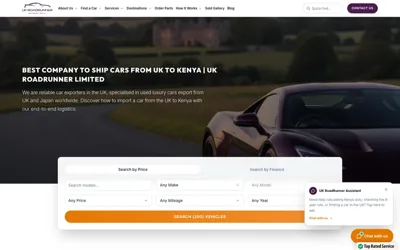
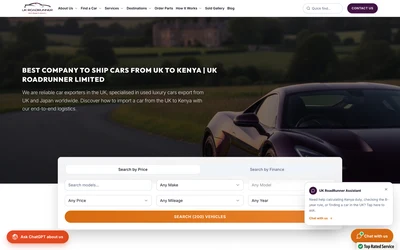
Add UK RoadRunner website case study and refresh portfolio preview

diff --git a/blog/case-study-how-i-built-uk-roadrunner-car-export-website.html b/blog/case-study-how-i-built-uk-roadrunner-car-export-website.html
@@ -1,0 +1,265 @@
+<!DOCTYPE html>
+<html lang="en">
+<head>
+    <meta charset="UTF-8">
+    <meta name="viewport" content="width=device-width, initial-scale=1.0">
+    <title>How I Built UK RoadRunner: Vehicle Discovery, Export Guidance & Enquiries | Xclusive Tech</title>
+    <meta name="description" content="A screenshot-led UK RoadRunner website case study covering vehicle search, inventory browsing, shipping information and clear enquiry paths for overseas buyers.">
+    <meta name="keywords" content="UK RoadRunner website, automotive website design, car exporter website, vehicle inventory website, Xclusive Tech">
+    <meta name="author" content="Samuel Kidemi Kisaga, Xclusive Tech">
+    <meta property="og:title" content="How I Built UK RoadRunner: Vehicle Discovery, Export Guidance & Enquiries">
+    <meta property="og:description" content="A screenshot-led UK RoadRunner website case study covering vehicle search, inventory browsing, shipping information and clear enquiry paths for overseas buyers.">
+    <meta property="og:type" content="article">
+    <meta property="og:url" content="https://www.xclusivetech.co.ke/blog/case-study-how-i-built-uk-roadrunner-car-export-website">
+    <meta property="og:image" content="https://www.xclusivetech.co.ke/assets/images/blog/case-study-how-i-built-uk-roadrunner-car-export-website.jpg">
+    <meta name="twitter:card" content="summary_large_image">
+    <meta name="twitter:title" content="How I Built UK RoadRunner: Vehicle Discovery, Export Guidance & Enquiries">
+    <meta name="twitter:description" content="A screenshot-led UK RoadRunner website case study covering vehicle search, inventory browsing, shipping information and clear enquiry paths for overseas buyers.">
+    <meta name="twitter:image" content="https://www.xclusivetech.co.ke/assets/images/blog/case-study-how-i-built-uk-roadrunner-car-export-website.jpg">
+    <link rel="canonical" href="https://www.xclusivetech.co.ke/blog/case-study-how-i-built-uk-roadrunner-car-export-website">
+
+    <!-- Theme Enforcement: Strictly Light Mode -->
+    <script>
+        try {
+            localStorage.removeItem('xclusive_theme');
+            document.documentElement.removeAttribute('data-theme');
+            document.documentElement.classList.remove('dark');
+        } catch (e) {}
+    </script>
+
+    <!-- Google Fonts Preconnect & Ubuntu Font Loading -->
+    <link rel="preconnect" href="https://fonts.googleapis.com">
+    <link rel="preconnect" href="https://fonts.gstatic.com" crossorigin>
+    <link href="https://fonts.googleapis.com/css2?family=Ubuntu:ital,wght@0,300;0,400;0,500;0,700;1,300;1,400;1,500;1,700&display=swap" rel="stylesheet">
+
+    <!-- Tailwind CSS -->
+
+    <link rel="stylesheet" href="/css/utilities.css?v=20261030buyer">
+    <link rel="icon" href="../assets/icons/xclusivetech-favicon.svg?v=2" type="image/svg+xml">
+    <link rel="icon" type="image/png" sizes="96x96" href="../assets/icons/favicon-96x96.png?v=2">
+    <link rel="apple-touch-icon" sizes="180x180" href="../assets/icons/apple-touch-icon.png?v=2">
+    <link rel="shortcut icon" href="../favicon.ico?v=2">
+    <link rel="manifest" href="../site.webmanifest">
+    <link rel="stylesheet" href="../css/styles.css?v=20261101contacts">
+
+    <!-- Structured Data: BreadcrumbList, BlogPosting, FAQPage -->
+    <script type="application/ld+json">{
+  "@context": "https://schema.org",
+  "@graph": [
+    {
+      "@type": "BreadcrumbList",
+      "itemListElement": [
+        {
+          "@type": "ListItem",
+          "position": 1,
+          "name": "Home",
+          "item": "https://www.xclusivetech.co.ke/"
+        },
+        {
+          "@type": "ListItem",
+          "position": 2,
+          "name": "Blog",
+          "item": "https://www.xclusivetech.co.ke/blog/"
+        },
+        {
+          "@type": "ListItem",
+          "position": 3,
+          "name": "UK RoadRunner case study",
+          "item": "https://www.xclusivetech.co.ke/blog/case-study-how-i-built-uk-roadrunner-car-export-website"
+        }
+      ]
+    },
+    {
+      "@type": "BlogPosting",
+      "headline": "How I Built UK RoadRunner: Vehicle Discovery, Export Guidance & Enquiries",
+      "description": "A screenshot-led UK RoadRunner website case study covering vehicle search, inventory browsing, shipping information and clear enquiry paths for overseas buyers.",
+      "image": [
+        "https://www.xclusivetech.co.ke/assets/images/blog/case-study-how-i-built-uk-roadrunner-car-export-website.jpg"
+      ],
+      "datePublished": "2026-11-09",
+      "dateModified": "2026-11-09",
+      "mainEntityOfPage": {
+        "@type": "WebPage",
+        "@id": "https://www.xclusivetech.co.ke/blog/case-study-how-i-built-uk-roadrunner-car-export-website"
+      },
+      "author": {
+        "@type": "Person",
+        "name": "Samuel Kidemi Kisaga",
+        "url": "https://www.xclusivetech.co.ke/founder"
+      },
+      "publisher": {
+        "@type": "Organization",
+        "name": "Xclusive Tech",
+        "url": "https://www.xclusivetech.co.ke/"
+      },
+      "inLanguage": "en-KE"
+    }
+  ]
+}</script>
+    <link rel="stylesheet" href="/css/blog.css?v=20261107footer">
+</head>
+<body class="bg-white text-slate-900 overflow-x-hidden">
+
+    <!-- Navigation -->
+    <nav class="fixed top-0 w-full z-50 bg-white/95 backdrop-blur-lg border-b border-slate-200 transition-all duration-300" id="navbar">
+        <div class="max-w-7xl mx-auto px-4 sm:px-6 lg:px-8">
+            <div class="flex justify-between items-center h-16">
+                <a href="/" class="flex items-center gap-2">
+                    <img src="../assets/icons/xclusivetech-header-logo-light.svg" alt="Xclusive Tech logo" class="nav-logo-img nav-logo-light h-10 w-auto">
+                    <img src="../assets/icons/xclusivetech-header-logo.svg" alt="Xclusive Tech logo" class="nav-logo-img nav-logo-dark h-10 w-auto">
+                </a>
+                <div class="hidden md:flex gap-8">
+                    <a href="/" class="nav-link">Home</a>
+                    <a href="/about" class="nav-link">About</a>
+                    <a href="/services" class="nav-link">Services</a>
+                    <div class="relative group">
+                        <button type="button" class="nav-link bg-transparent cursor-pointer flex items-center gap-1">
+                            Solutions
+                            <svg aria-hidden="true" class="w-3.5 h-3.5 transition-transform duration-200 group-hover:rotate-180" fill="none" stroke="currentColor" stroke-width="2.5" viewBox="0 0 24 24"><polyline points="6 9 12 15 18 9"/></svg>
+                        </button>
+                        <div class="absolute left-1/2 -translate-x-1/2 top-full pt-3 hidden group-hover:block z-50">
+                            <div class="bg-white border border-slate-200 rounded-xl shadow-2xl py-2 w-60">
+                                <a href="/solutions" class="block px-4 py-2.5 text-sm text-gray-700 hover:bg-slate-50 hover:text-blue-600 transition-colors">Solutions by Business Type</a>
+                                <a href="/solutions#industries" class="block px-4 py-2.5 text-sm text-gray-700 hover:bg-slate-50 hover:text-blue-600 transition-colors">Industries We Serve</a>
+                                <a href="/printing" class="block px-4 py-2.5 text-sm text-gray-700 hover:bg-slate-50 hover:text-blue-600 transition-colors">Printing &amp; Publications</a>
+                                <a href="/solutions#saas" class="block px-4 py-2.5 text-sm text-gray-700 hover:bg-slate-50 hover:text-blue-600 transition-colors">SaaS &amp; Custom Platforms</a>
+                            </div>
+                        </div>
+                    </div>
+                    <a href="/pricing" class="nav-link">Pricing</a>
+                    <a href="/portfolio" class="nav-link">Portfolio</a>
+                    <a href="/blog/" class="nav-link active">Blog</a>
+                    <a href="/contact" class="nav-link">Contact</a>
+                </div>
+                <div class="nav-actions flex items-center gap-3">
+                    <a href="https://wa.me/254722753819?text=Hi+Samuel%2C+I+read+your+UK+RoadRunner+case+study.+We+need+an+automotive+website." target="_blank" class="hidden md:block px-6 py-2 rounded-lg bg-blue-600 text-white hover:bg-blue-700 shadow-md transition-all duration-300 font-medium">Discuss Your Website</a>
+                    <button id="mobile-menu-btn" class="md:hidden p-2 rounded-lg hover:bg-slate-100 transition-colors" aria-label="Toggle menu">
+                        <svg class="w-6 h-6" fill="none" stroke="currentColor" viewBox="0 0 24 24">
+                            <path stroke-linecap="round" stroke-linejoin="round" stroke-width="2" d="M4 6h16M4 12h16M4 18h16"></path>
+                        </svg>
+                    </button>
+                </div>
+            </div>
+        </div>
+    </nav>
+
+    <!-- Breadcrumb Header -->
+    <header class="pt-28 pb-8 px-4 sm:px-6 lg:px-8 bg-gradient-to-b from-amber-50/60 to-white border-b border-slate-100">
+        <div class="max-w-4xl mx-auto">
+            <nav class="flex items-center gap-2 text-xs text-slate-500 mb-6 font-medium" aria-label="Breadcrumb">
+                <a href="/" class="hover:text-blue-600 transition">Home</a>
+                <span>/</span>
+                <a href="/blog/" class="hover:text-blue-600 transition">Blog</a>
+                <span>/</span>
+                <span class="text-slate-800">UK RoadRunner Case Study</span>
+            </nav>
+
+            <div class="inline-flex items-center gap-2 px-3 py-1 rounded-full bg-amber-100 text-amber-800 text-xs font-semibold uppercase tracking-wider mb-4">
+                <span><svg class="xt-ui-icon" width="20" height="20" viewBox="0 0 24 24" aria-hidden="true" focusable="false"><use href="/assets/icons/ui.svg#truck"></use></svg> Automotive Websites &amp; Vehicle Exports</span>
+            </div>
+
+            <h1 class="text-3xl sm:text-4xl lg:text-5xl font-extrabold text-slate-900 tracking-tight leading-tight mb-6">How I Built UK RoadRunner: Vehicle Discovery, Export Guidance & Enquiries</h1>
+
+            <div class="flex items-center gap-4 text-sm text-slate-600 pb-2 border-b border-slate-200">
+                <div class="flex items-center gap-2.5">
+                    <img src="../assets/images/samuel-headshot.webp" alt="Samuel Kidemi" class="w-10 h-10 rounded-full border border-blue-200 object-cover" srcset="../assets/images/samuel-headshot-256.webp 256w, ../assets/images/samuel-headshot.webp 800w" sizes="(min-width: 1024px) 33vw, (min-width: 640px) 50vw, 100vw">
+                    <div>
+                        <span class="font-bold text-slate-900 block leading-tight">Samuel Kidemi Kisaga</span>
+                        <span class="text-xs text-slate-500">Founder &amp; Principal Web Architect</span>
+                    </div>
+                </div>
+                <span class="text-slate-300">•</span>
+                <time datetime="2026-11-09" class="text-xs text-slate-500">November 9, 2026</time>
+                <span class="text-slate-300">•</span>
+                <span class="text-xs text-amber-700 font-semibold">6 min read</span>
+                <span class="text-slate-300">•</span>
+                <a href="https://ukroadrunner.co.uk" target="_blank" rel="noopener noreferrer" class="text-xs font-semibold text-amber-800 hover:underline">Live Site: ukroadrunner.co.uk &rarr;</a>
+            </div>
+        </div>
+    </header>
+
+    <!-- Main Content -->
+    <main class="py-12 px-4 sm:px-6 lg:px-8">
+        <article class="max-w-4xl mx-auto"><div class="rounded-2xl overflow-hidden border border-slate-200 shadow-xl mb-12"><img src="/assets/images/blog/case-study-how-i-built-uk-roadrunner-car-export-website.webp" alt="UK RoadRunner homepage with vehicle search and export service presentation" width="1200" height="630" fetchpriority="high" class="w-full h-auto"><div class="p-4 bg-slate-900 text-slate-300 text-xs">UK RoadRunner Limited · Automotive &amp; international vehicle exports · Website by Samuel Kidemi</div></div>
+<div class="prose prose-slate lg:prose-lg max-w-none space-y-8 text-slate-700 leading-relaxed">
+<p class="text-xl text-slate-800 font-medium">Buying a vehicle overseas starts with questions: which car fits my needs, what happens after I choose it, and who can help me through the import process? When I built UK RoadRunner’s website, I organised the experience around those decisions.</p>
+<p>This case study walks through the customer-facing design: a searchable showroom, practical export information and routes into a conversation with the team. The previews are real desktop captures of the live website taken on November 9, 2026.</p>
+<div class="my-8 p-6 rounded-2xl bg-amber-50 border border-amber-200"><h2 class="text-xl font-bold text-slate-900 mb-3">Project at a glance</h2><ul class="list-disc pl-6 space-y-2"><li><strong>Client:</strong> UK RoadRunner Limited.</li><li><strong>Sector:</strong> vehicle sourcing and international automotive logistics.</li><li><strong>My work:</strong> website design and development.</li><li><strong>Design focus:</strong> help buyers discover vehicles, understand the export journey and make a relevant enquiry.</li><li><strong>Explore:</strong> <a href="https://ukroadrunner.co.uk" target="_blank" rel="noopener noreferrer" class="underline">Visit UK RoadRunner</a>.</li></ul></div>
+<h2 class="text-2xl font-bold text-slate-900">1. Give the first screen a useful job</h2>
+<p>I brought vehicle discovery into the homepage instead of making buyers search through company information first. The search offers make, model, price, mileage and year controls, alongside a separate finance search tab. The visual direction pairs a deep purple identity with orange actions and prominent vehicle imagery.</p>
+<p>The broader design principle is simple: a strong first screen should explain the offer and let visitors do something useful. A buyer who already knows their preferred vehicle can begin searching; someone still researching can explore the services and process.</p>
+<figure class="my-8"><a href="/assets/images/blog/uk-roadrunner-desktop.webp" target="_blank" rel="noopener noreferrer"><img src="/assets/images/blog/uk-roadrunner-desktop.webp" alt="UK RoadRunner desktop homepage showing hero, vehicle filters and featured vehicles" width="1440" height="900" loading="lazy" decoding="async" class="w-full h-auto rounded-xl border border-slate-200"></a><figcaption class="text-sm text-slate-500 mt-3">Homepage preview captured in Chrome at a 1440 × 900 CSS-pixel viewport. Click any preview to inspect it at full size.</figcaption></figure>
+<h2 class="text-2xl font-bold text-slate-900">2. Make inventory easier to narrow down</h2>
+<p>The <a href="https://ukroadrunner.co.uk/inventory" target="_blank" rel="noopener noreferrer" class="underline">inventory page</a> combines a filter sidebar, brand shortcuts, sorting and vehicle cards. This gives visitors several ways to reduce a broad catalogue to a more useful shortlist.</p>
+<p>I used a repeatable card structure so the photograph, vehicle identity and key information occupy predictable places. Consistency helps comparison: visitors can focus on the differences between cars instead of relearning the layout for each listing. Stock and prices are live business information and will change after these screenshots.</p>
+<figure class="my-8"><a href="/assets/images/blog/uk-roadrunner-inventory.webp" target="_blank" rel="noopener noreferrer"><img src="/assets/images/blog/uk-roadrunner-inventory.webp" alt="UK RoadRunner inventory with make, model, price, mileage and body-style filters beside vehicle cards" width="1440" height="900" loading="lazy" decoding="async" class="w-full h-auto rounded-xl border border-slate-200"></a><figcaption class="text-sm text-slate-500 mt-3">Desktop inventory capture showing the search controls, brand shortcuts and vehicle imagery as displayed on November 9, 2026.</figcaption></figure>
+<h2 class="text-2xl font-bold text-slate-900">3. Connect the showroom to the export journey</h2>
+<p>Vehicle choice is only one part of this business. I separated the navigation into areas for finding a car, services, destinations and the import process. That structure gives different questions a clear home without forcing the entire service catalogue into the main page.</p>
+<figure class="my-8"><a href="/assets/images/blog/uk-roadrunner-navigation.webp" target="_blank" rel="noopener noreferrer"><img src="/assets/images/blog/uk-roadrunner-navigation.webp" alt="UK RoadRunner navigation with Find a Car, Services, Destinations, How It Works and Contact Us" width="1440" height="85" loading="lazy" decoding="async" class="w-full h-auto rounded-xl border border-slate-200"></a><figcaption class="text-sm text-slate-500 mt-3">Navigation detail cropped from the same desktop homepage capture.</figcaption></figure>
+<p>The <a href="https://ukroadrunner.co.uk/kenya-shipping" target="_blank" rel="noopener noreferrer" class="underline">Kenya shipping page</a> brings together shipping options, import preparation and a quote request. Destination-specific content helps buyers reach information relevant to their route, rather than treating every overseas enquiry as the same transaction.</p>
+<h2 class="text-2xl font-bold text-slate-900">4. Give research a clear next step</h2>
+<p>The site includes an <a href="https://ukroadrunner.co.uk/how-it-works/kenya-car-duty-calculator" target="_blank" rel="noopener noreferrer" class="underline">import-duty estimate tool</a> and a route to request a detailed cost breakdown. The calculator’s role in the interface is to support an initial budgeting conversation; its own disclaimer distinguishes an estimate from a final assessment.</p>
+<p>I kept the contact action visible in the navigation. A useful commercial website should let someone move from browsing to a specific question without losing context. The design supports that handoff rather than requiring every visitor to follow an identical path.</p>
+<h2 class="text-2xl font-bold text-slate-900">5. What this project demonstrates</h2>
+<ul class="list-disc pl-6 space-y-2"><li><strong>Discovery:</strong> give catalogue visitors practical ways to narrow their options.</li><li><strong>Clarity:</strong> separate product information from service and destination guidance.</li><li><strong>Consistency:</strong> repeat navigation, card patterns and action styles.</li><li><strong>Enquiries:</strong> connect research content to a relevant conversation.</li></ul>
+<p>The finished work is a vehicle export website that brings these journeys together. This walkthrough focuses on the interface and content decisions visible in the live project; it does not claim a measured increase in sales or enquiries.</p>
+<aside class="blog-cta" aria-label="Automotive website project enquiry"><div class="blog-cta-copy"><h2>Need a better digital showroom?</h2><p>Let’s organise your vehicles, services and enquiry journey around what your customers need to decide.</p></div><div class="blog-cta-actions"><a class="blog-cta-primary" href="https://wa.me/254722753819?text=Hello%20Samuel%2C%20I%20saw%20your%20UK%20RoadRunner%20case%20study." target="_blank" rel="noopener noreferrer">Discuss your website</a><a class="blog-cta-secondary" href="/portfolio#automotive">Explore automotive work</a></div></aside>
+<div class="p-6 rounded-2xl bg-slate-50 border border-slate-200"><h2 class="text-lg font-bold text-slate-900">About the author</h2><p>Samuel Kidemi Kisaga is the founder of Xclusive Tech. Read the <a href="/founder" class="underline">founder profile</a> or browse more <a href="/portfolio" class="underline">website projects</a>.</p></div>
+</div></article>
+    </main>
+
+    <!-- Footer -->
+    <footer class="blog-footer bg-slate-900 text-slate-300 pt-16 pb-12 border-t border-slate-800">
+        <div class="max-w-7xl mx-auto px-4 sm:px-6 lg:px-8">
+            <div class="grid grid-cols-1 md:grid-cols-4 gap-10 mb-12">
+                <div class="space-y-4">
+                    <img src="../assets/icons/xclusivetech-header-logo.svg?v=20261107footer" alt="Xclusive Tech" class="h-10 w-auto">
+                    <p class="text-xs text-slate-400 leading-relaxed">
+                        Top Digitally Fit Web Design &amp; Digital Architecture Firm in Nairobi, Kenya. We engineer high-speed, conversion-focused websites for transport brands, institutions, and enterprises.
+                    </p>
+                    <p class="text-xs text-slate-400">Kilimani, Nairobi, Kenya</p>
+                </div>
+                <div>
+                    <h3 class="text-white text-sm font-bold uppercase tracking-wider mb-4">Case Studies</h3>
+                    <ul class="space-y-2 text-xs">
+                        <li><a href="/blog/case-study-how-i-built-opsok-medical-website-kenya" class="hover:text-white transition">OPSOK Medical Society</a></li>
+                        <li><a href="/blog/case-study-how-i-designed-lusweti-nabutola-law-firm-website-nairobi" class="hover:text-white transition">Lusweti &amp; Nabutola Law</a></li>
+                        <li><a href="/blog/case-study-how-i-built-uk-roadrunner-car-export-website" class="text-amber-400 hover:text-white transition">UK RoadRunner</a></li>
+                        <li><a href="/blog/case-study-how-i-built-santorini-queen-luxury-yacht-travel-website" class="hover:text-white transition">Santorini Queen Yacht</a></li>
+                        <li><a href="/blog/case-study-how-i-built-vape-collective-ecommerce-mpesa-kenya" class="hover:text-white transition">Vape Collective E-Commerce</a></li>
+                    </ul>
+                </div>
+                <div>
+                    <h3 class="text-white text-sm font-bold uppercase tracking-wider mb-4">Core Services</h3>
+                    <ul class="space-y-2 text-xs">
+                        <li><a href="/services" class="hover:text-white transition">Transport &amp; Tour Portals</a></li>
+                        <li><a href="/services" class="hover:text-white transition">Institutional Web Design</a></li>
+                        <li><a href="/services" class="hover:text-white transition">E-Commerce &amp; Daraja M-Pesa</a></li>
+                        <li><a href="/services" class="hover:text-white transition">SEO &amp; GEO Optimization</a></li>
+                        <li><a href="/pricing" class="hover:text-white transition">Transparent Rate Cards</a></li>
+                    </ul>
+                </div>
+                <div>
+                    <h3 class="text-white text-sm font-bold uppercase tracking-wider mb-4">Get In Touch</h3>
+                    <p class="text-xs text-slate-400 mb-2">Speak directly with Samuel:</p>
+                    <p class="text-sm font-bold text-white mb-1"><a href="tel:+254722753819" class="contact-inline-link">+254 722 753 819</a></p>
+                    <p class="text-xs text-slate-400 mb-4"><a href="mailto:hello@xclusivetech.co.ke" class="contact-inline-link">hello@xclusivetech.co.ke</a></p>
+                    <a href="https://wa.me/254722753819" target="_blank" rel="noopener noreferrer" class="inline-block px-4 py-2 rounded-lg bg-emerald-600 hover:bg-emerald-500 text-white text-xs font-bold transition">
+                        Direct WhatsApp Chat &rarr;
+                    </a>
+                </div>
+            </div>
+            <div class="pt-8 border-t border-slate-800 text-center text-xs text-slate-500">
+                &copy; 2026 Xclusive Tech Kenya. All rights reserved. Crafting high-converting digital storefronts across East Africa.
+            </div>
+        </div>
+    </footer>
+
+    <script src="../js/animations.js?v=20261030buyer" defer></script>
+    <script src="/js/measurement-config.js?v=20261030buyer" defer></script>
+    <script src="/js/vendor/web-vitals.iife.js?v=4.2.4" defer></script>
+    <script src="/js/buyer-tools.js?v=20261030buyer" defer></script>
+    <script src="/js/lead-events.js?v=20261031leads" defer></script>
+<script src="/js/contact-links.js?v=20261101contacts" defer></script>
+</body>
+</html>

diff --git a/portfolio.html b/portfolio.html
@@ -886,9 +886,10 @@
         "position": 62,
         "item": {
           "@type": "CreativeWork",
-          "name": "UK Roadrunner Limited",
+          "name": "UK RoadRunner Limited",
           "url": "https://ukroadrunner.co.uk",
-          "about": "Automotive Logistics \u2014 Automotive",
+          "about": "Vehicle Search, Global Shipping & Buyer Enquiries \u2014 Automotive",
+          "subjectOf": "https://www.xclusivetech.co.ke/blog/case-study-how-i-built-uk-roadrunner-car-export-website",
           "creator": {
             "@id": "https://www.xclusivetech.co.ke/"
           }
@@ -2736,7 +2737,7 @@
             <div class="grid sm:grid-cols-2 lg:grid-cols-3 gap-6">
 
 
-                <a href="https://ukroadrunner.co.uk" target="_blank" rel="noopener noreferrer" class="bg-white rounded-2xl border border-slate-200 shadow-sm hover:shadow-2xl hover:border-blue-500 hover:-translate-y-2 transition-all duration-300 flex flex-col group overflow-hidden">
+                <div class="bg-white rounded-2xl border border-slate-200 shadow-sm hover:shadow-2xl hover:border-blue-500 hover:-translate-y-2 transition-all duration-300 flex flex-col group overflow-hidden">
                     <div class="relative overflow-hidden aspect-[16/10] bg-slate-50 border-b border-slate-200">
                         <div class="absolute top-0 inset-x-0 h-7 bg-slate-100/95 backdrop-blur flex items-center gap-1.5 px-3 z-10 border-b border-slate-200">
                             <span class="w-2.5 h-2.5 rounded-full bg-red-400"></span>
@@ -2746,18 +2747,18 @@
                         </div>
                         <picture>
                             <source srcset="assets/images/portfolio/ukroadrunner-400.webp 400w, assets/images/portfolio/ukroadrunner.webp 800w" sizes="(min-width: 1024px) 33vw, (min-width: 640px) 50vw, 100vw" type="image/webp">
-                            <img loading="lazy" decoding="async" src="assets/images/portfolio/ukroadrunner.png" alt="UK Roadrunner Limited website preview" width="800" height="500" class="absolute inset-0 w-full h-full object-cover object-top pt-7 scale-100 group-hover:scale-105 transition-transform duration-500 ease-out">
+                            <img loading="lazy" decoding="async" src="assets/images/portfolio/ukroadrunner.png" alt="UK RoadRunner vehicle export website with vehicle search and inventory previews" width="800" height="500" class="absolute inset-0 w-full h-full object-cover object-top pt-7 scale-100 group-hover:scale-105 transition-transform duration-500 ease-out">
                         </picture>
                     </div>
                     <div class="p-6 space-y-2 bg-white flex-grow flex flex-col justify-between">
                         <div>
                             <span class="inline-block px-2.5 py-0.5 rounded-full text-[11px] font-semibold tracking-wide uppercase bg-blue-50 text-blue-600 border border-blue-100 mb-1">Automotive</span>
-                            <h3 class="text-lg font-bold text-gray-900 group-hover:text-blue-600 transition-colors leading-snug">UK Roadrunner Limited</h3>
-                            <p class="text-sm text-gray-600">Automotive Logistics</p>
+                            <h3 class="text-lg font-bold text-gray-900 group-hover:text-blue-600 transition-colors leading-snug">UK RoadRunner Limited</h3>
+                            <p class="text-sm text-gray-600">Vehicle Search, Global Shipping &amp; Buyer Enquiries</p><p class="text-xs text-slate-500 leading-relaxed pt-1.5">A digital showroom connecting vehicle discovery with export services, destination guidance and direct enquiries.</p>
                         </div>
-                        <p class="text-xs font-mono font-semibold text-blue-600 pt-2 flex items-center gap-1">ukroadrunner.co.uk <span aria-hidden="true" class="group-hover:translate-x-1 transition-transform">&rarr;</span></p>
+                        <div class="pt-3 border-t border-slate-100 flex items-center justify-between"><a href="/blog/case-study-how-i-built-uk-roadrunner-car-export-website" class="text-xs font-semibold text-blue-600 hover:underline">Read case study &rarr;</a><a href="https://ukroadrunner.co.uk" target="_blank" rel="noopener noreferrer" class="text-xs font-mono font-semibold text-slate-600 hover:text-blue-600">Visit live site &nearr;</a></div>
                     </div>
-                </a>
+                </div>
             </div>
         </div>
     </section>

diff --git a/blog/index.html b/blog/index.html
@@ -204,6 +204,7 @@
     <section class="py-16 px-4 sm:px-6 lg:px-8">
         <div class="max-w-6xl mx-auto">
             <div id="post-grid" class="grid sm:grid-cols-2 lg:grid-cols-3 gap-8">
+                <a href="/blog/case-study-how-i-built-uk-roadrunner-car-export-website" class="bg-white p-6 rounded-2xl border border-slate-200 shadow-sm hover:shadow-xl hover:border-blue-500 transition-all duration-300 flex flex-col group relative"><div class="w-full h-48 rounded-xl overflow-hidden mb-4 bg-slate-900"><img src="../assets/images/blog/case-study-how-i-built-uk-roadrunner-car-export-website.webp" alt="UK RoadRunner vehicle export website preview" width="1200" height="630" loading="lazy" class="w-full h-full object-cover"></div><span class="text-xs uppercase tracking-widest text-blue-600 font-semibold mb-2">Automotive Website Case Study</span><h2 class="text-xl font-bold text-gray-900 mb-2">How I Built UK RoadRunner: Vehicle Discovery, Export Guidance &amp; Enquiries</h2><p class="text-gray-600 text-sm flex-grow">A screenshot-led look at the digital showroom, vehicle filters, export guidance and buyer enquiry journey.</p><span class="text-sm font-semibold text-blue-600 mt-4">Read the case study &rarr;</span></a>
                 <!-- Article 1: Dental & Medical Clinic Web Design -->
                 <a href="/blog/case-study-how-i-built-cwpc-kenya-safaris-website" class="bg-white p-6 rounded-2xl border border-slate-200 shadow-sm hover:shadow-xl hover:border-[#3600DF] transition-all duration-300 flex flex-col group relative"><div class="w-full h-48 rounded-xl overflow-hidden mb-4 bg-slate-900"><img src="../assets/images/blog/case-study-how-i-built-cwpc-kenya-safaris-website.webp" alt="CWPC Kenya Safaris website preview" width="1200" height="630" loading="lazy" class="w-full h-full object-cover"></div><span class="text-xs uppercase tracking-widest text-[#3600DF] font-semibold mb-2">Safari Website Case Study</span><h2 class="text-xl font-bold text-gray-900 mb-2">How I Built CWPC Kenya Safaris: From Safari Discovery to Direct Enquiries</h2><p class="text-gray-600 text-sm flex-grow">A screenshot-led walkthrough of destination discovery, safari information and direct enquiry paths.</p><span class="text-sm font-semibold text-[#3600DF] mt-4">Read the case study &rarr;</span></a>
 <a href="/blog/web-design-for-dental-clinics-and-medical-practices-in-kenya" class="bg-white p-6 rounded-2xl border border-slate-200 shadow-sm hover:shadow-xl hover:border-[#3600DF] transition-all duration-300 flex flex-col group relative">
